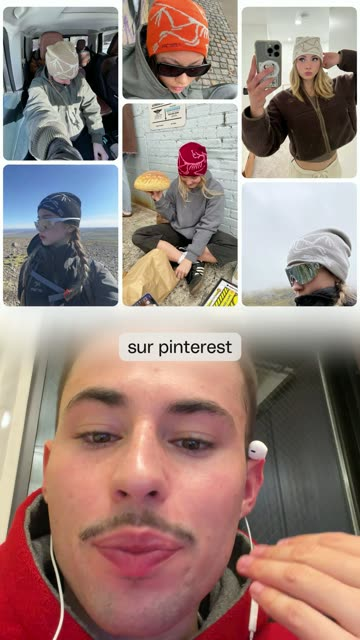
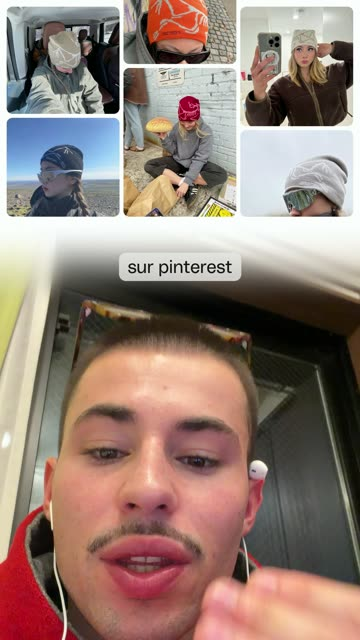
Page de vérif : vidéo v2 (retours Encart du 18/11)

diff --git a/index.html b/index.html
@@ -147,17 +147,15 @@ ol{margin:6px 0 0;padding-left:20px} li{margin:5px 0}
 <div class="lis-progres" aria-hidden="true"></div><main>
 <header class="hero"><h1>Bonnets Butter Goods · à vérifier avant de poster</h1>
 <div class="verre etat">
-<div class="ligne"><span class="pastille ok">prêt</span><span>La vidéo v1 (0:32) est dans l'Encart, elle attend tes retours.</span></div>
+<div class="ligne"><span class="pastille ok">prêt</span><span>La vidéo v2 (0:30) est dans l'Encart, avec tes retours sur la v1 appliqués. Elle attend tes retours.</span></div>
 <div class="ligne"><span class="pastille ok">prêt</span><span>Les 24 fiches Diggeur sont regroupées et corrigées, toujours en brouillon.</span></div>
 <div class="ligne"><span class="pastille toi">ton clic</span><span>Publier les fiches Diggeur : sans ça, le lien du DM ne marche pas.</span></div>
 <div class="ligne"><span class="pastille toi">toi, 2 min</span><span>Créer l'automatisation ManyChat : ton compte demande une connexion avec un test anti-robot, je ne peux pas le faire à ta place.</span></div>
 </div></header>
 
-<section><span class="etiquette">La vidéo · v1 · 0:32</span>
-<div class="verre"><p>Coupée à ta méthode du 11/11 : 77 s de rush ramenées à 32 s, aucun blanc de plus de 0,12 s, aucun mot coupé (vérifié en retranscrivant le rendu). Son à -14 LUFS.</p>
-<p>Écran partagé : le bonnet en haut, toi en bas. Tu es filmé très près, donc le haut de ta tête passe dans le fondu.</p>
-<div class="images"><img src="img/v-hook.jpg" alt="Hook"><img src="img/v-mur.jpg" alt="Mur Pinterest"><img src="img/v-split.jpg" alt="Split"><img src="img/v-grille.jpg" alt="Grille"></div></div>
-<div class="verre" style="margin-top:10px"><div class="der"><div class="r"><span class="t">0:00</span><span class="q">« arrête de porter des bonnets arc&#x27;teryx »</span><span class="v">le bonnet Arc&#x27;teryx 24K Black, dès la 1re image</span></div><div class="r"><span class="t">0:02</span><span class="q">« on les a vus en story »</span><span class="v">une fille qui le porte (Pinterest)</span></div><div class="r"><span class="t">0:03</span><span class="q">« instagram, sur pinterest »</span><span class="v">le mur Pinterest : 6 personnes, le même bonnet</span></div><div class="r"><span class="t">0:05</span><span class="q">« je vais te donner une alternative… »</span><span class="v">toi plein écran</span></div><div class="r"><span class="t">0:08</span><span class="q">« des designs très simples »</span><span class="v">Wharfie, Charcoal</span></div><div class="r"><span class="t">0:09</span><span class="q">« de très beaux designs… moins cher »</span><span class="v">Stars Skully, Navy</span></div><div class="r"><span class="t">0:11</span><span class="q">« …la marque butter goods »</span><span class="v">Logo Skully, Navy (le logo Butter)</span></div><div class="r"><span class="t">0:13</span><span class="q">« marque de skate australienne fondée en 2008 »</span><span class="v">toi plein écran</span></div><div class="r"><span class="t">0:16</span><span class="q">« les marques de skate »</span><span class="v">Amphibian Skully (squelette de grenouille)</span></div><div class="r"><span class="t">0:17</span><span class="q">« ils sont chauds en design »</span><span class="v">Eyes Skully, Grey</span></div><div class="r"><span class="t">0:18</span><span class="q">« les bonnets sont beaux, c&#x27;est une vérité »</span><span class="v">toi plein écran</span></div><div class="r"><span class="t">0:20</span><span class="q">« plein de types de bonnets »</span><span class="v">Polartec Skully (polaire)</span></div><div class="r"><span class="t">0:21</span><span class="q">« à gauche… et à droite »</span><span class="v">Ear Flap à gauche, puis Tall Wharfie à droite</span></div><div class="r"><span class="t">0:22</span><span class="q">« ils ont tous leur délire »</span><span class="v">Dougie Skully, Plaid</span></div><div class="r"><span class="t">0:24</span><span class="q">« c&#x27;est beau, ça coûte moins cher… »</span><span class="v">toi plein écran</span></div><div class="r"><span class="t">0:26</span><span class="q">« je t&#x27;ai fait une sélection de 15-20 bonnets »</span><span class="v">la grille des 20 du site officiel</span></div><div class="r"><span class="t">0:30</span><span class="q">« commente butter… c&#x27;est en bio »</span><span class="v">toi plein écran</span></div></div></div></section>
+<section><span class="etiquette">La vidéo · v2 · 0:30</span>
+<div class="verre"><p><b>v2, tes retours du 18/11 appliqués</b> : tes 10 coupes sont faites. Tes zones mordaient d'environ 0,05 s sur les mots voisins : j'ai retiré le blanc, pas le mot. J'ai aussi retiré le faux départ « en plus » après « moins cher », et ramené tous les blancs à 0,04 s. Plus aucun zoom, et ta tête est entière en écran partagé.</p><p>77 s de rush ramenées à 30 s, aucun mot coupé (vérifié en retranscrivant le rendu). Son à -14 LUFS.</p><div class="images"><img src="img/v-hook.jpg" alt="Hook"><img src="img/v-mur.jpg" alt="Mur Pinterest"><img src="img/v-split.jpg" alt="Split"><img src="img/v-grille.jpg" alt="Grille"></div></div>
+<div class="verre" style="margin-top:10px"><div class="der"><div class="r"><span class="t">0:00</span><span class="q">« arrête de porter des bonnets arc&#x27;teryx »</span><span class="v">le bonnet Arc&#x27;teryx 24K Black, dès la 1re image</span></div><div class="r"><span class="t">0:02</span><span class="q">« on les a vus en story »</span><span class="v">une fille qui le porte (Pinterest)</span></div><div class="r"><span class="t">0:03</span><span class="q">« instagram, sur pinterest »</span><span class="v">le mur Pinterest : 6 personnes, le même bonnet</span></div><div class="r"><span class="t">0:05</span><span class="q">« je vais te donner une alternative… compliments »</span><span class="v">toi plein écran</span></div><div class="r"><span class="t">0:07</span><span class="q">« avec de très beaux designs »</span><span class="v">défilement : la grenouille, le Cosmo (patch Sun Ra), le Blend</span></div><div class="r"><span class="t">0:08</span><span class="q">« et qui coûtent moins cher »</span><span class="v">la grille de tous les bonnets</span></div><div class="r"><span class="t">0:09</span><span class="q">« ces bonnets magnifiques »</span><span class="v">Sun Ra Skully, Wine</span></div><div class="r"><span class="t">0:11</span><span class="q">« la marque butter goods »</span><span class="v">Serif Skully (lettres BUTT)</span></div><div class="r"><span class="t">0:12</span><span class="q">« marque de skate »</span><span class="v">le logo Butter (photo de campagne)</span></div><div class="r"><span class="t">0:12</span><span class="q">« australienne fondée »</span><span class="v">lookbook 2026 (vélo, banc)</span></div><div class="r"><span class="t">0:13</span><span class="q">« en 2008 »</span><span class="v">toi plein écran, tête entière</span></div><div class="r"><span class="t">0:14</span><span class="q">« les marques de skate »</span><span class="v">Distress Waffle (maille léopard)</span></div><div class="r"><span class="t">0:15</span><span class="q">« ils sont chauds en design »</span><span class="v">Eyes Skully, Grey</span></div><div class="r"><span class="t">0:16</span><span class="q">« les bonnets sont beaux, c&#x27;est une vérité »</span><span class="v">toi plein écran</span></div><div class="r"><span class="t">0:18</span><span class="q">« plein de types de bonnets »</span><span class="v">Polartec Skully (polaire)</span></div><div class="r"><span class="t">0:19</span><span class="q">« à gauche… et à droite »</span><span class="v">Ear Flap Thorn à gauche, puis Stripe Knit à droite</span></div><div class="r"><span class="t">0:20</span><span class="q">« ils ont tous leur délire »</span><span class="v">Dougie Skully, Plaid</span></div><div class="r"><span class="t">0:22</span><span class="q">« c&#x27;est beau, ça coûte moins cher… »</span><span class="v">toi plein écran</span></div><div class="r"><span class="t">0:24</span><span class="q">« je t&#x27;ai fait une sélection de 15-20 bonnets »</span><span class="v">la grille de tous les bonnets</span></div><div class="r"><span class="t">0:27</span><span class="q">« commente butter… c&#x27;est en bio »</span><span class="v">toi plein écran</span></div></div></div></section>
 
 <section><span class="etiquette">Le hook · Arc'teryx</span>
 <div class="verre"><div class="arc"><img src="img/arcteryx.jpg" alt="Arc'teryx Bird Head Toque 24K Black"><div>
